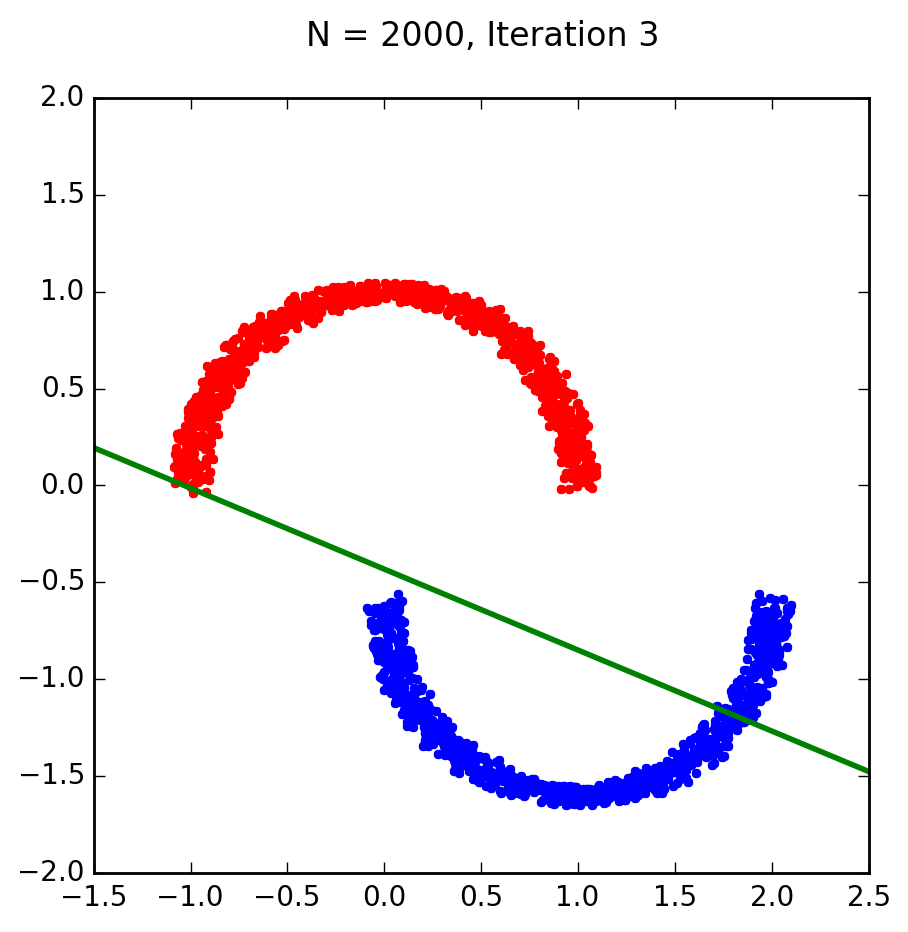
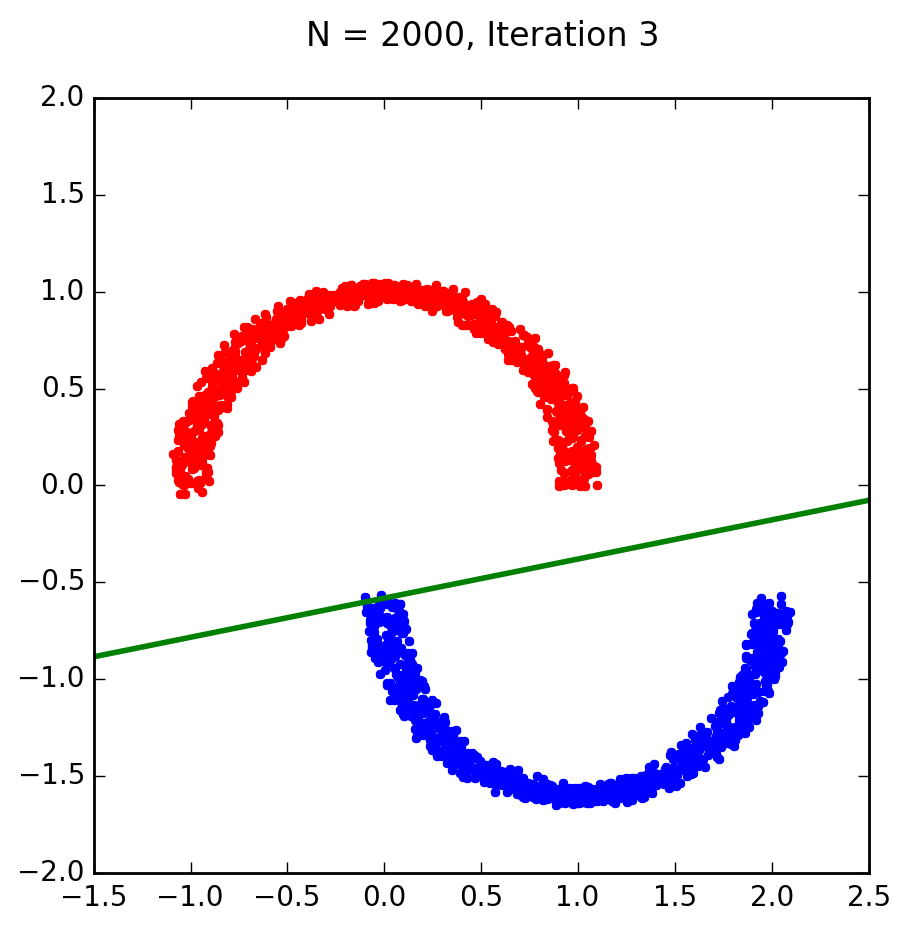
Completed question 3.1 b

diff --git a/Clark-02/Problem 3.1 a.py b/Clark-02/Problem 3.1 a.py
@@ -88,8 +88,30 @@ class Perceptron:
         check_pts = self.generate_points(M)
         return self.classification_error(vec, pts=check_pts)
         
+    def linear_regression(self):
+        #Create X and Y from the data
+        xTemp = []
+        yTemp = []
+        w = np.zeros(3)
+        for x, s in self.X:
+            xTemp.append(x)
+            yTemp.append(s)
+        
+        X = np.matrix(xTemp)
+        Y = np.matrix(yTemp)
+
+        #Derive intermediary matrices
+        Xcross = np.dot(np.linalg.inv(np.dot(X.T, X)), X.T)
+        w += (np.dot(Xcross, Y.T).T).A1
+        
+        #Save and plot w
+        self.w = w
+        self.plot(vec = w)
+        
         
 
 
 p = Perceptron(2000)
 p.pla(save = True)
+
+p.linear_regression()
